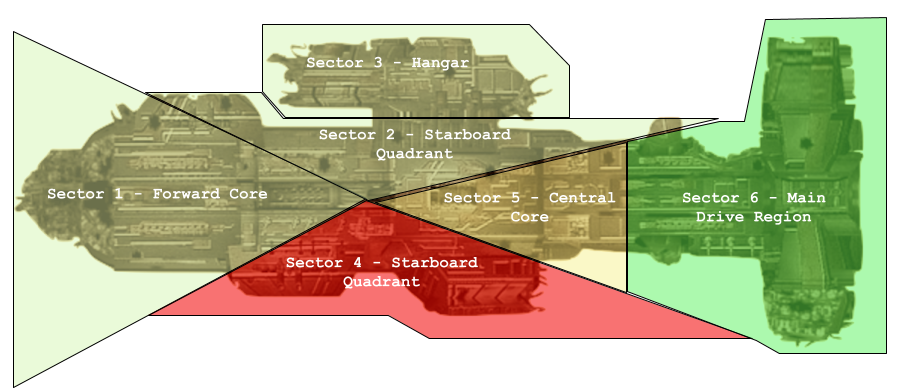
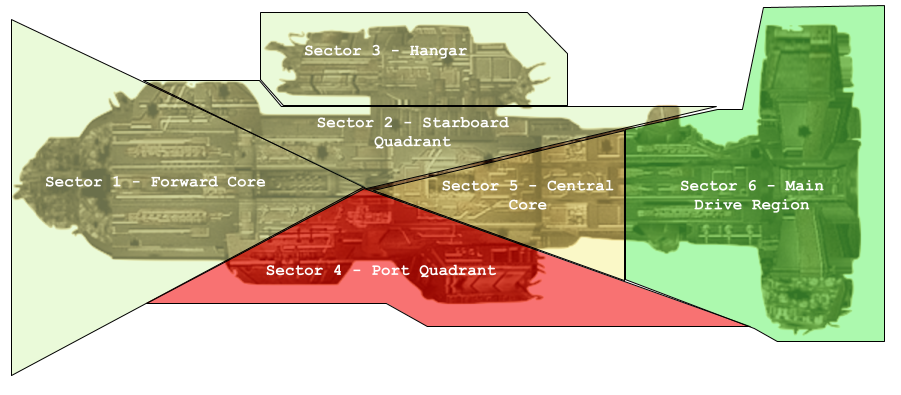
Two new diagrams, plus corrected some status items

diff --git a/app/assets/javascripts/systems/defensive.js b/app/assets/javascripts/systems/defensive.js
@@ -6,12 +6,10 @@
   self.onDocumentReady = function(){
     Apeiron.home.logLines([
       ["System Registry 0: Shields", 100],
-      [" - Shield Sector 1: <span class='bad report-status'>Offline - Insufficient Power</span>", 100],
-      [" - Shield Sector 2: <span class='bad report-status'>Offline - Insufficient Power</span>", 100],
-      [" - Shield Sector 3: <span class='bad report-status'>Offline - Insufficient Power</span>", 100],
-      [" - Shield Sector 4: <span class='bad report-status'>Offline - Shield regulator is damaged or missing</span>", 100],
-      [" - Shield Sector 5: <span class='bad report-status'>Offline - Insufficient Power</span>", 100],
-      [" - Shield Sector 6: <span class='bad report-status'>Offline - Insufficient Power</span>", 100],
+      [" - Shield Region 1: <span class='bad report-status'>Offline - Insufficient Power</span>", 100],
+      [" - Shield Region 2: <span class='bad report-status'>Offline - Insufficient Power</span>", 100],
+      [" - Shield Region 3: <span class='bad report-status'>Offline - Insufficient Power</span>", 100],
+      [" - Shield Region 4: <span class='bad report-status'>Offline - Shield regulator is damaged or missing</span>", 100],
       ["System Registry 1: Automated Repair Systems: <span class='bad report-status'>Offline - Insufficient Power</span>", 400],
       ["System Registry 2: <span class='bad power-no-system'>&lt;Error: No such system/system not configured&gt;</span>", 200]
     ]);

diff --git a/app/assets/javascripts/systems/offensive.js b/app/assets/javascripts/systems/offensive.js
@@ -9,7 +9,7 @@
       [" - Launcher Bank Alpha:&nbsp;&nbsp;&nbsp;<span class='good report-status'>Online</span> &nbsp;Launchers loaded: <span class='bad'>0/5</span> &nbsp;Ammunition reserve: <span class='bad'>0</span>", 100],
       [" - Launcher Bank Beta:&nbsp&nbsp&nbsp&nbsp<span class='good report-status'>Online</span> &nbsp;Launchers loaded: <span class='bad'>0/5</span> &nbsp;Ammunition reserve: <span class='bad'>0</span>", 100],
       [" - Launcher Bank Gamma:&nbsp&nbsp&nbsp<span class='good report-status'>Online</span> &nbsp;Launchers loaded: <span class='bad'>0/5</span> &nbsp;Ammunition reserve: <span class='bad'>0</span>", 100],
-      [" - Launcher Bank Delta:&nbsp&nbsp&nbsp<span class='good report-status'>Online</span> &nbsp;Launchers loaded: <span class='bad'>0/5</span> &nbsp;Ammunition reserve: <span class='bad'>0</span>", 100],
+      [" - Launcher Bank Delta:&nbsp&nbsp&nbsp<span class='bad report-status'>Offline - Launchers damaged.</span>", 100],
       [" - Launcher Bank Epsilon:&nbsp<span class='good report-status'>Online</span> &nbsp;Launchers loaded: <span class='bad'>0/5</span> &nbsp;Ammunition reserve: <span class='bad'>0</span>", 100],
       ["System Registry 1: <span class='bad power-no-system'>&lt;Error: No such system/system not configured&gt;</span>", 200]
     ]);
